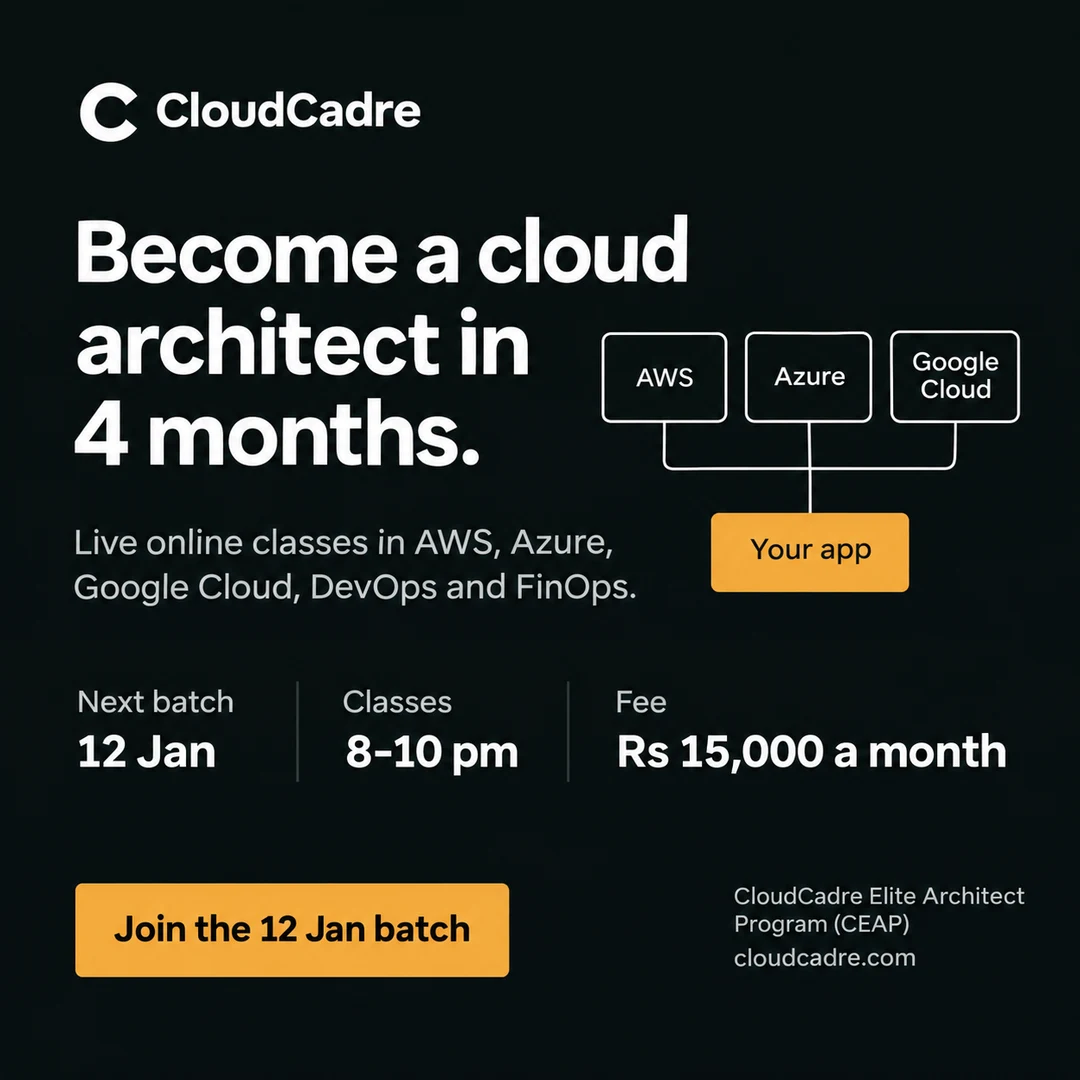
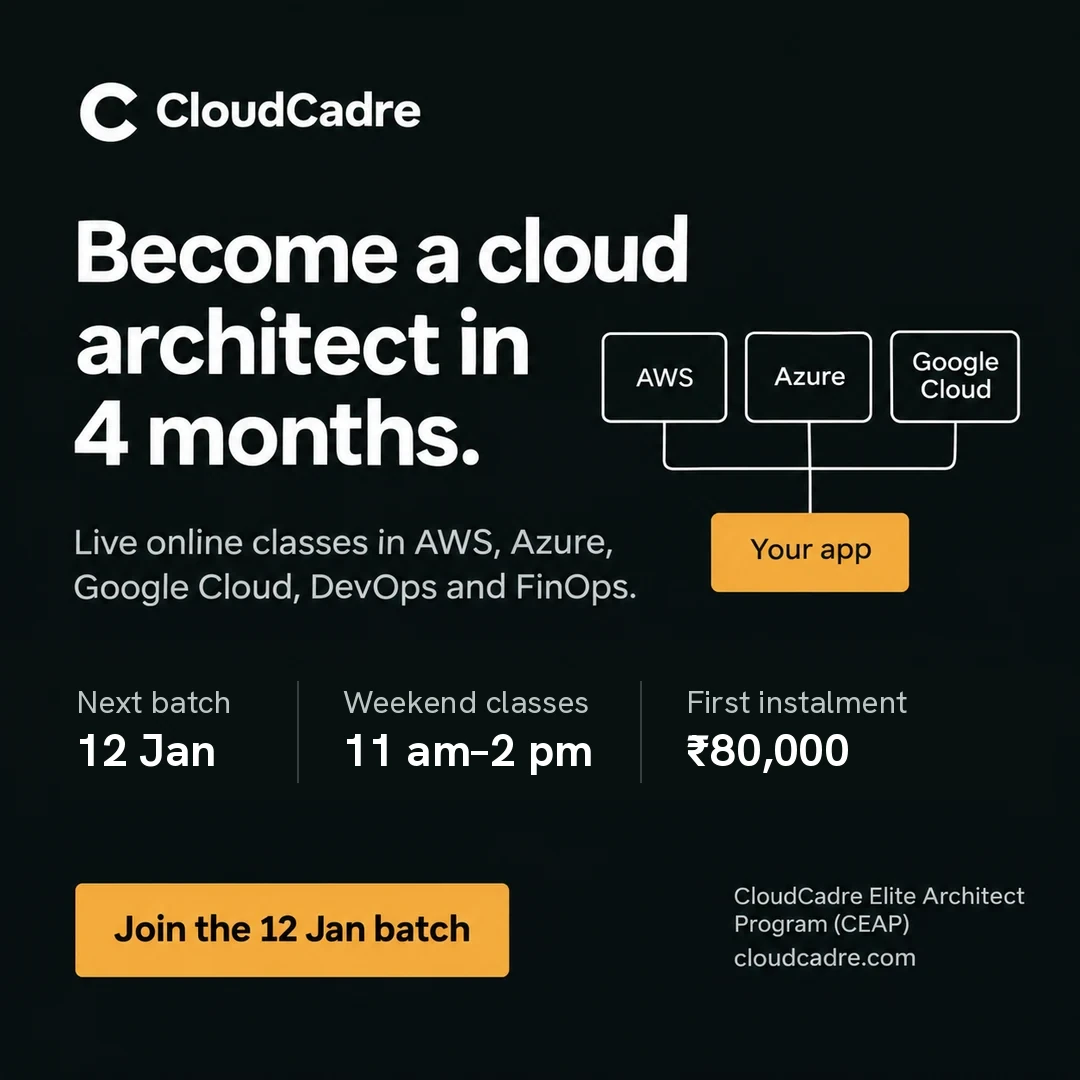
Change the batch to weekend classes, weekday practice and an 80,000 first instalment
Live classes are Saturday and Sunday 11 am to 2 pm, practice is Monday to Friday 10 am to 5 pm. The home hero, batch ticket, phone bar, FAQ and course poster show the new values.

Changed region(s): [[0.3056, 0.6417, 0.9472, 0.7333], [0.0611, 0.6417, 0.2139, 0.7333]]

diff --git a/apps/academy/lib/aurora-content.ts b/apps/academy/lib/aurora-content.ts
@@ -7,7 +7,7 @@ import type { HomeContent, NavItem, SiteContent } from '@educore/ui/theme'
 // PLACEHOLDER DATA. Everything marked INVENTED below came from the design mockup and is NOT real. The full list
 // is plan/15 §15. Showing invented figures, people or placements to the public is misleading advertising, so
 // replace or delete each of them before the site goes live:
-//   - the batch: date "12 Jan", class times (Mon to Thu 8-10 pm, Sat lab 10-1), seats (30), fee (Rs 15,000 x 4, or Rs 60,000)
+//   - the batch: date "12 Jan", seats (30). Class times (Sat and Sun 11 am to 2 pm), weekday practice (10 am to 5 pm) and the first instalment (Rs 80,000) came from the owner
 //   - the program: month split, topics and lab counts (12 / 8 / 14 / "34 labs"), and the syllabus PDF
 //   - people: the counsellor's name, photo and reply time
 //   - images: every photo except the placements is a stock photo (Unsplash) that stands in for CloudCadre's own
@@ -55,8 +55,8 @@ export const auroraSite: SiteContent = {
   ],
   // stock placeholder
   authArt: { image: { src: photo('1531482615713-2afd69097998', 900), alt: 'Learners working through a cloud lab together' }, tag: 'Taught by working engineers' },
-  // The poster carries the 12 Jan date, 8-10 pm and Rs 15,000 a month: the same INVENTED placeholders as the home hero. Redo both together.
-  coursePosters: { ceap: { src: '/cloudcadre/ceap-poster.webp', alt: 'CloudCadre Elite Architect Program: become a cloud architect in 4 months. Next batch 12 Jan, classes 8 to 10 pm, Rs 15,000 a month.' } },
+  // The poster carries the 12 Jan date, the weekend class time and the first instalment, the same values as the home hero. Redo both together.
+  coursePosters: { ceap: { src: '/cloudcadre/ceap-poster.webp', alt: 'CloudCadre Elite Architect Program: become a cloud architect in 4 months. Next batch 12 Jan, weekend classes 11 am to 2 pm, first instalment Rs 80,000.' } },
   disclaimer: 'AWS, Azure, Google Cloud, Kubernetes and other marks belong to their owners.',
 }
 
@@ -64,11 +64,11 @@ export const auroraHome: HomeContent = {
   hero: {
     headline: 'Become a cloud engineer in 4 months.',
     lead: 'Live online classes in AWS, Azure, DevOps and FinOps.',
-    // INVENTED: the date, the class time and the fee. They are the answers to when, what time and how much.
+    // The answers to when, what time and how much. The date is INVENTED.
     facts: [
       { label: 'Next batch', value: '12 Jan' },
-      { label: 'Classes', value: '8–10 pm' },
-      { label: 'Fee', value: '₹15k/month' },
+      { label: 'Weekend classes', value: '11 am–2 pm' },
+      { label: 'First instalment', value: '₹80,000' },
     ],
     // The hero button goes to the batch ticket, so the visitor sees the date and the price before paying.
     primaryCta: { label: 'Join the 12 Jan batch', href: '/#batch' }, // INVENTED date
@@ -144,25 +144,25 @@ export const auroraHome: HomeContent = {
     ],
   },
 
-  // INVENTED: every value of the batch ticket (date, class days and times, fee). Confirm with the owner.
+  // The batch date is INVENTED: confirm it with the owner. The class times, practice hours and first instalment are theirs.
   batch: {
     title: 'Next batch',
     month: 'January 2027',
     day: '12',
     length: '4 months, live online',
     week: [
-      { day: 'Mon', kind: 'class', time: ['8–10', 'pm'] },
-      { day: 'Tue', kind: 'class', time: ['8–10', 'pm'] },
-      { day: 'Wed', kind: 'class', time: ['8–10', 'pm'] },
-      { day: 'Thu', kind: 'class', time: ['8–10', 'pm'] },
-      { day: 'Fri', kind: 'free' },
-      { day: 'Sat', kind: 'lab', time: ['Lab', '10–1'] },
-      { day: 'Sun', kind: 'free' },
+      { day: 'Mon', kind: 'lab', time: ['10 am', '5 pm'] },
+      { day: 'Tue', kind: 'lab', time: ['10 am', '5 pm'] },
+      { day: 'Wed', kind: 'lab', time: ['10 am', '5 pm'] },
+      { day: 'Thu', kind: 'lab', time: ['10 am', '5 pm'] },
+      { day: 'Fri', kind: 'lab', time: ['10 am', '5 pm'] },
+      { day: 'Sat', kind: 'class', time: ['11 am', '2 pm'] },
+      { day: 'Sun', kind: 'class', time: ['11 am', '2 pm'] },
     ],
-    fee: { amount: '₹15,000', per: '/ month × 4', alt: 'or ₹60,000 once · UPI, card, net banking' },
+    fee: { amount: '₹80,000', per: 'first instalment', alt: 'UPI, card, net banking' },
     // /courses until the program page exists (plan/15 §15).
     join: { label: 'Join the 12 Jan batch', href: '/courses' },
-    bar: { title: 'Next batch 12 Jan', line: '₹15,000 a month', label: 'Join batch' },
+    bar: { title: 'Next batch 12 Jan', line: '₹80,000 first instalment', label: 'Join batch' },
   },
 
   talk: {
@@ -176,7 +176,7 @@ export const auroraHome: HomeContent = {
     // Check each answer against CloudCadre's real policies before launch (hours, recordings, exam fees).
     faq: [
       { question: 'Do I need an IT background?', answer: 'No. Month 1 starts from cloud basics. If you are completely new to IT, a counsellor will suggest a short warm-up first.' },
-      { question: 'How many hours a week?', answer: 'About 8 to 10: two or three live evening classes, plus labs in your own time.' }, // INVENTED
+      { question: 'How many hours a week?', answer: 'Live classes are on Saturday and Sunday, 11 am to 2 pm. Practice is Monday to Friday, 10 am to 5 pm.' },
       { question: 'What if I miss a class?', answer: 'Every class is recorded and up the same night, and your mentor helps you catch up on the lab.' },
       { question: 'Do I get a certificate?', answer: 'Yes, a CEAP certificate employers can verify online. AWS, Azure and Google Cloud exam fees are paid to the exam provider.' },
       { question: 'Do you guarantee a job?', answer: 'No, and be wary of anyone who does. We give you the skills, a capstone, mock interviews, CV and LinkedIn help, and introductions.' },

diff --git a/packages/themes/aurora/src/home.tsx b/packages/themes/aurora/src/home.tsx
@@ -158,7 +158,7 @@ function Batch({ c, wa }: { c: NonNullable<Content['batch']>; wa: string | null 
                 </li>
               ))}
             </ul>
-            <p className="legend"><span><i className="k-class" />Live class</span><span><i className="k-lab" />Lab with a mentor</span><span>Every class is recorded</span></p>
+            <p className="legend"><span><i className="k-class" />Live class</span><span><i className="k-lab" />Practice</span><span>Every class is recorded</span></p>
           </div>
           <div className="fee">
             <p className="t-label tk-h">Fee</p>

diff --git a/packages/ui/src/theme.ts b/packages/ui/src/theme.ts
@@ -150,7 +150,7 @@ export interface HomeContent {
     week: BatchDay[]
     fee: { amount: string; per: string; alt: string }
     join: NavItem
-    /** Phone action bar: "Next batch 12 Jan" over "₹15,000 a month", and the short button label. */
+    /** Phone action bar: "Next batch 12 Jan" over "₹80,000 first instalment", and the short button label. */
     bar: { title: string; line: string; label: string }
   }
   talk?: {

diff --git a/plan/15-design-and-ux-guide.md b/plan/15-design-and-ux-guide.md
@@ -100,7 +100,7 @@ How v11 applies it:
 | Placements | Learner photo, square | "₹27 LPA" | Name, role, logo |
 | Program | Diagram of what you build that month | Month title | "Month 1 · 12 labs" and one line |
 | How classes work | Class photo | "30", "34", "1", "2" | "seats in a batch" … |
-| Next batch | Calendar date, weekly timetable | "12", "₹15,000" | "/ month × 4" |
+| Next batch | Calendar date, weekly timetable | "12", "₹80,000" | "first instalment" |
 
 **Text budget per marketing section:** one H2, at most one short line under it, and at most 12 words per unit. If a section needs more, it belongs on another page (the program page, the syllabus PDF) or behind a tap.
 
@@ -291,8 +291,8 @@ A value is always H3/600 ink with a Label/400 muted above it. Use for the hero f
 ### 10.8 Batch ticket ("Next batch")
 One white block on paper with three parts separated by dashed rules:
 1. **Calendar:** month and year (Small, 600) → the day as a huge numeral → "4 months, live online" (Label).
-2. **Your week:** a 7-day row (Mon–Sun). Class days are ink cells ("8–10 pm"), the lab day is a saffron cell ("Lab 10–1"), free days are `--tile` with "–". A legend under it, plus "Every class is recorded".
-3. **Fee:** "₹15,000" (Number) + "/ month × 4" (Label) → "or ₹60,000 once · UPI, card, net banking" → the filled Join button → WhatsApp text link.
+2. **Your week:** a 7-day row (Mon–Sun). Class days are ink cells ("11 am / 2 pm"), practice days are saffron cells ("10 am / 5 pm"), free days are `--tile` with "–". A legend under it, plus "Every class is recorded".
+3. **Fee:** "₹80,000" (Number) + "first instalment" (Label) → "UPI, card, net banking" → the filled Join button → WhatsApp text link.
 This is where the price lives on the home page. Never hide the price behind "ask us".
 
 ### 10.9 FAQ and counsellor
@@ -399,7 +399,7 @@ Diagrams are **built in code (inline SVG), never generated images**: generated i
 
 ## 17. Open placeholders and questions (resolve before launch)
 
-- **Batch and price:** the date "12 Jan", class times (Mon–Thu 8–10 pm, Sat lab 10–1), the fee (₹15,000 × 4 or ₹60,000), seats (30).
+- **Batch and price:** the date "12 Jan", seats (30). Class times (Sat–Sun 11 am–2 pm), practice (Mon–Fri 10 am–5 pm) and the first instalment (₹80,000) came from the owner on 26 Nov 2026; the total fee and later instalments are not given yet.
 - **Program:** the month split, topics, lab counts (12 / 8 / 14 / "34 labs"), and a real syllabus PDF.
 - **People:** the counsellor's name, photo and hours; the WhatsApp number, phone and email.
 - **Consent:** every placement learner, and Monika Singh for the hero photo.
